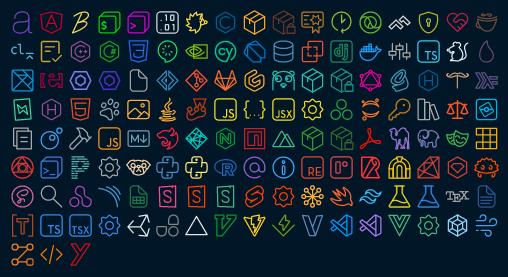
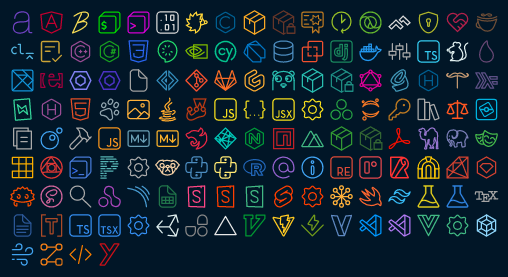
feat: add mdx

Changed region(s): [[0.0, 0.4332, 1.0, 0.9819]]

diff --git a/src/extensions.ts b/src/extensions.ts
@@ -105,6 +105,7 @@ export const extensions: IconMap = {
   lua: ['lua'],
   mapjs: ['js.map', 'cjs.map', 'mjs.map'],
   markdown: ['md', 'markdown'],
+  mdx: ['mdx'],
   nginx: ['nginx', 'nginxconfig'],
   pdf: ['pdf'],
   perl: ['pm', 'raku'],
